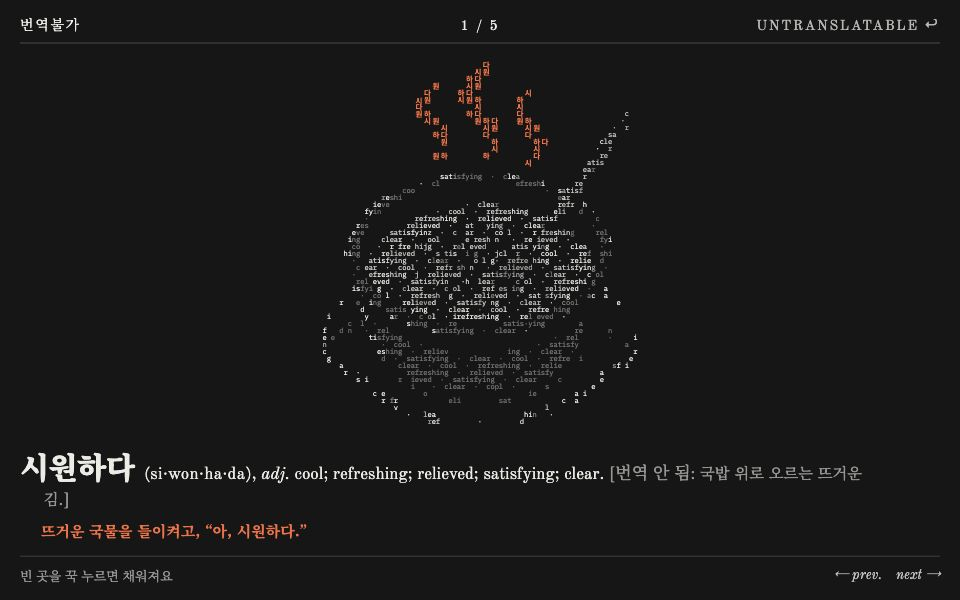
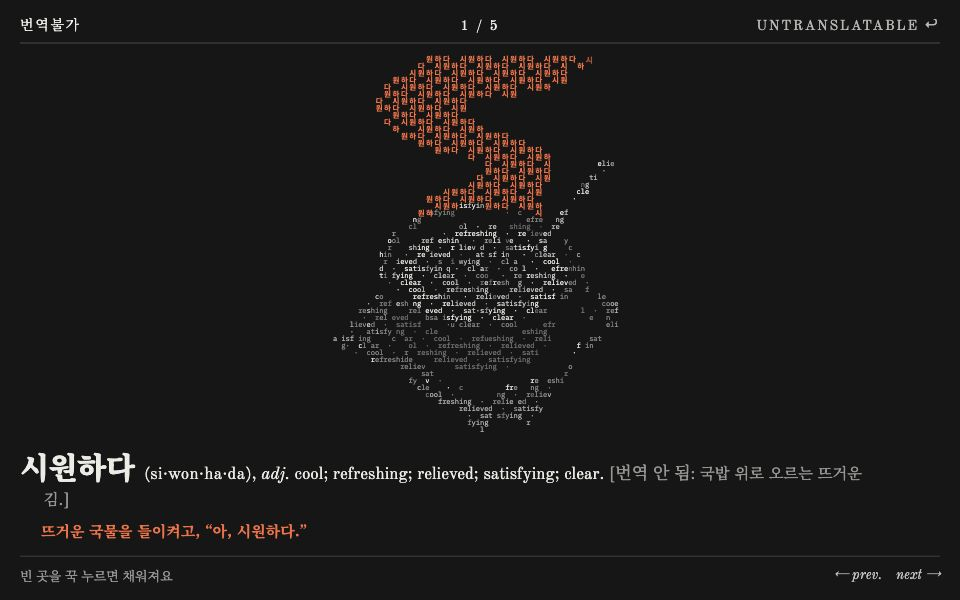
day-261117 답답하다 벽을 화면 끝까지 채우고, 국밥은 큰 김 버전으로

diff --git a/day-261117/main.js b/day-261117/main.js
@@ -2,7 +2,7 @@ const SCENES = [
   { key: 'siwon', word: '시원하다', pron: 'si·won·ha·da', pos: 'adj.', hole: '국밥 위로 오르는 뜨거운 김', en: ['cool', 'refreshing', 'relieved', 'satisfying', 'clear'], ex: '뜨거운 국물을 들이켜고, “아, 시원하다.”' },
   { key: 'jeong', word: '정', pron: 'jeong', pos: 'n.', hole: '기대앉은 두 사람 사이', en: ['affection', 'attachment', 'bond', 'warmth', 'love'], ex: '미운 정도 정이다.' },
   { key: 'nunchi', word: '눈치', pron: 'nun·chi', pos: 'n.', hole: '상 위로 오가는 시선', en: ['tact', 'sense', 'awareness', 'social cue', 'reading the room'], ex: '말 안 해도 눈치로 알지.' },
-  { key: 'dapdap', word: '답답하다', pron: 'dap·dap·a·da', pos: 'adj.', hole: '손을 얹은 가슴', en: ['stuffy', 'frustrated', 'suffocating', 'stifled', 'heavy'], ex: '말이 안 통해서 답답해.' },
+  { key: 'dapdap', fill: true, word: '답답하다', pron: 'dap·dap·a·da', pos: 'adj.', hole: '손을 얹은 가슴', en: ['stuffy', 'frustrated', 'suffocating', 'stifled', 'heavy'], ex: '말이 안 통해서 답답해.' },
   { key: 'aswip', word: '아쉽다', pron: 'a·swip·da', pos: 'adj.', hole: '떠나며 흔드는 손', en: ['pity', 'regret', 'miss', 'too bad', 'wish'], ex: '벌써 가? 아쉽다.' },
 ];
 
@@ -75,16 +75,17 @@ function build() {
   const top = 52, bot = capTop - 14, aw = W - 24, ah = Math.max(120, bot - top);
   const k = Math.min(aw / m.w, ah / m.h), iw = m.w * k, ih = m.h * k;
   const ch = clamp(Math.max(ih, iw * .55) / 78, W < 640 ? 5 : 7, 11), cw = ch * .6;
-  const cols = Math.floor(iw / cw), rows = Math.floor(ih / ch);
-  const ox = (W - cols * cw) / 2, oy = top + (ah - rows * ch) / 2;
+  const ix = (W - iw) / 2, iy = top + (ah - ih) / 2;
+  const cols = Math.floor((S.fill ? aw : iw) / cw), rows = Math.floor((S.fill ? ah : ih) / ch);
+  const ox = (W - cols * cw) / 2, oy = top + ((S.fill ? ah : ih) - rows * ch) / 2 + (S.fill ? 0 : iy - top);
   const holes = [];
   let hx = 0, hy = 0;
   for (let r = 0; r < rows; r++) for (let c = 0; c < cols; c += 2) {
-    const px = Math.floor((c + .5) / cols * m.w), py = Math.floor((r + .5) / rows * m.h);
-    if (m.d[(py * m.w + px) * 4 + 1] > 110) { const p = [ox + (c + 1) * cw, oy + r * ch]; holes.push(p); hx += p[0]; hy += p[1]; }
+    const px = Math.floor((ox + (c + .5) * cw - ix) / k), py = Math.floor((oy + (r + .5) * ch - iy) / k);
+    if (px >= 0 && py >= 0 && px < m.w && py < m.h && m.d[(py * m.w + px) * 4 + 1] > 110) { const p = [ox + (c + 1) * cw, oy + r * ch]; holes.push(p); hx += p[0]; hy += p[1]; }
   }
   const n = holes.length || 1;
-  G = { m, S, ch, cw, cols, rows, ox, oy, holes, hc: [hx / n, hy / n], D: new Float32Array(cols * rows), stream: S.en.join('  ·  ') + '  ·  ', kr: S.word + ' ' };
+  G = { m, S, ch, cw, cols, rows, ox, oy, ix, iy, k, holes, hc: [hx / n, hy / n], D: new Float32Array(cols * rows), stream: S.en.join('  ·  ') + '  ·  ', kr: S.word + ' ' };
 }
 
 function enter(i) {
@@ -121,7 +122,7 @@ function frame(now) {
   ctx.fillStyle = '#161616'; ctx.fillRect(0, 0, W, H);
   ctx.textBaseline = 'top'; ctx.textAlign = 'center';
 
-  const { m, cols, rows, ox, oy, cw, ch, D, stream, kr } = G, L = stream.length, intro = t / 1.6, flow = Math.floor(t * 4), tick = Math.floor(t * 10);
+  const { m, cols, rows, ox, oy, ix, iy, k: K, cw, ch, D, stream, kr } = G, fill = G.S.fill, L = stream.length, intro = t / 1.6, flow = Math.floor(t * 4), tick = Math.floor(t * 10);
   const warp = WARP[G.S.key], holeOn = HOLE_ON[G.S.key];
   const hot = [], blank = [];
   let shown = 0, nh = 0;
@@ -129,13 +130,15 @@ function frame(now) {
   for (let r = 0; r < rows; r++) for (let c = 0; c < cols; c++) {
     const s = intro * rows - r - c / cols * 6;
     if (s <= 0) continue;
-    const x = (c + .5) / cols * m.w, y = (r + .5) / rows * m.h;
-    const w = m.f[Math.floor(y / m.h * m.LH) * m.LW + Math.floor(x / m.w * m.LW)];
+    const x = (ox + (c + .5) * cw - ix) / K, y = (oy + (r + .5) * ch - iy) / K;
+    const inside = x >= 0 && y >= 0 && x < m.w && y < m.h;
+    const w = inside ? m.f[Math.floor(y / m.h * m.LH) * m.LW + Math.floor(x / m.w * m.LW)] : 0;
     const [sx, sy] = warp(x, y, t, w, m);
-    const px = Math.floor(sx), py = Math.floor(sy);
-    if (px < 0 || py < 0 || px >= m.w || py >= m.h) continue;
-    const i = (py * m.w + px) * 4, lum = m.d[i], idx = r * cols + c;
-    if (m.d[i + 1] > 110) {
+    const px = Math.floor(sx), py = Math.floor(sy), idx = r * cols + c;
+    const out = px < 0 || py < 0 || px >= m.w || py >= m.h;
+    if (out && !fill) continue;
+    const i = (py * m.w + px) * 4, lum = out ? 225 : m.d[i];
+    if (!out && m.d[i + 1] > 110) {
       if (holeOn && !holeOn(x, y, t)) continue;
       if ((c & 1) === 0) {
         const X = ox + (c + 1) * cw, Y = oy + r * ch, v = smooth((press.R - Math.hypot(X - press.x, Y - press.y)) / (ch * 6));
